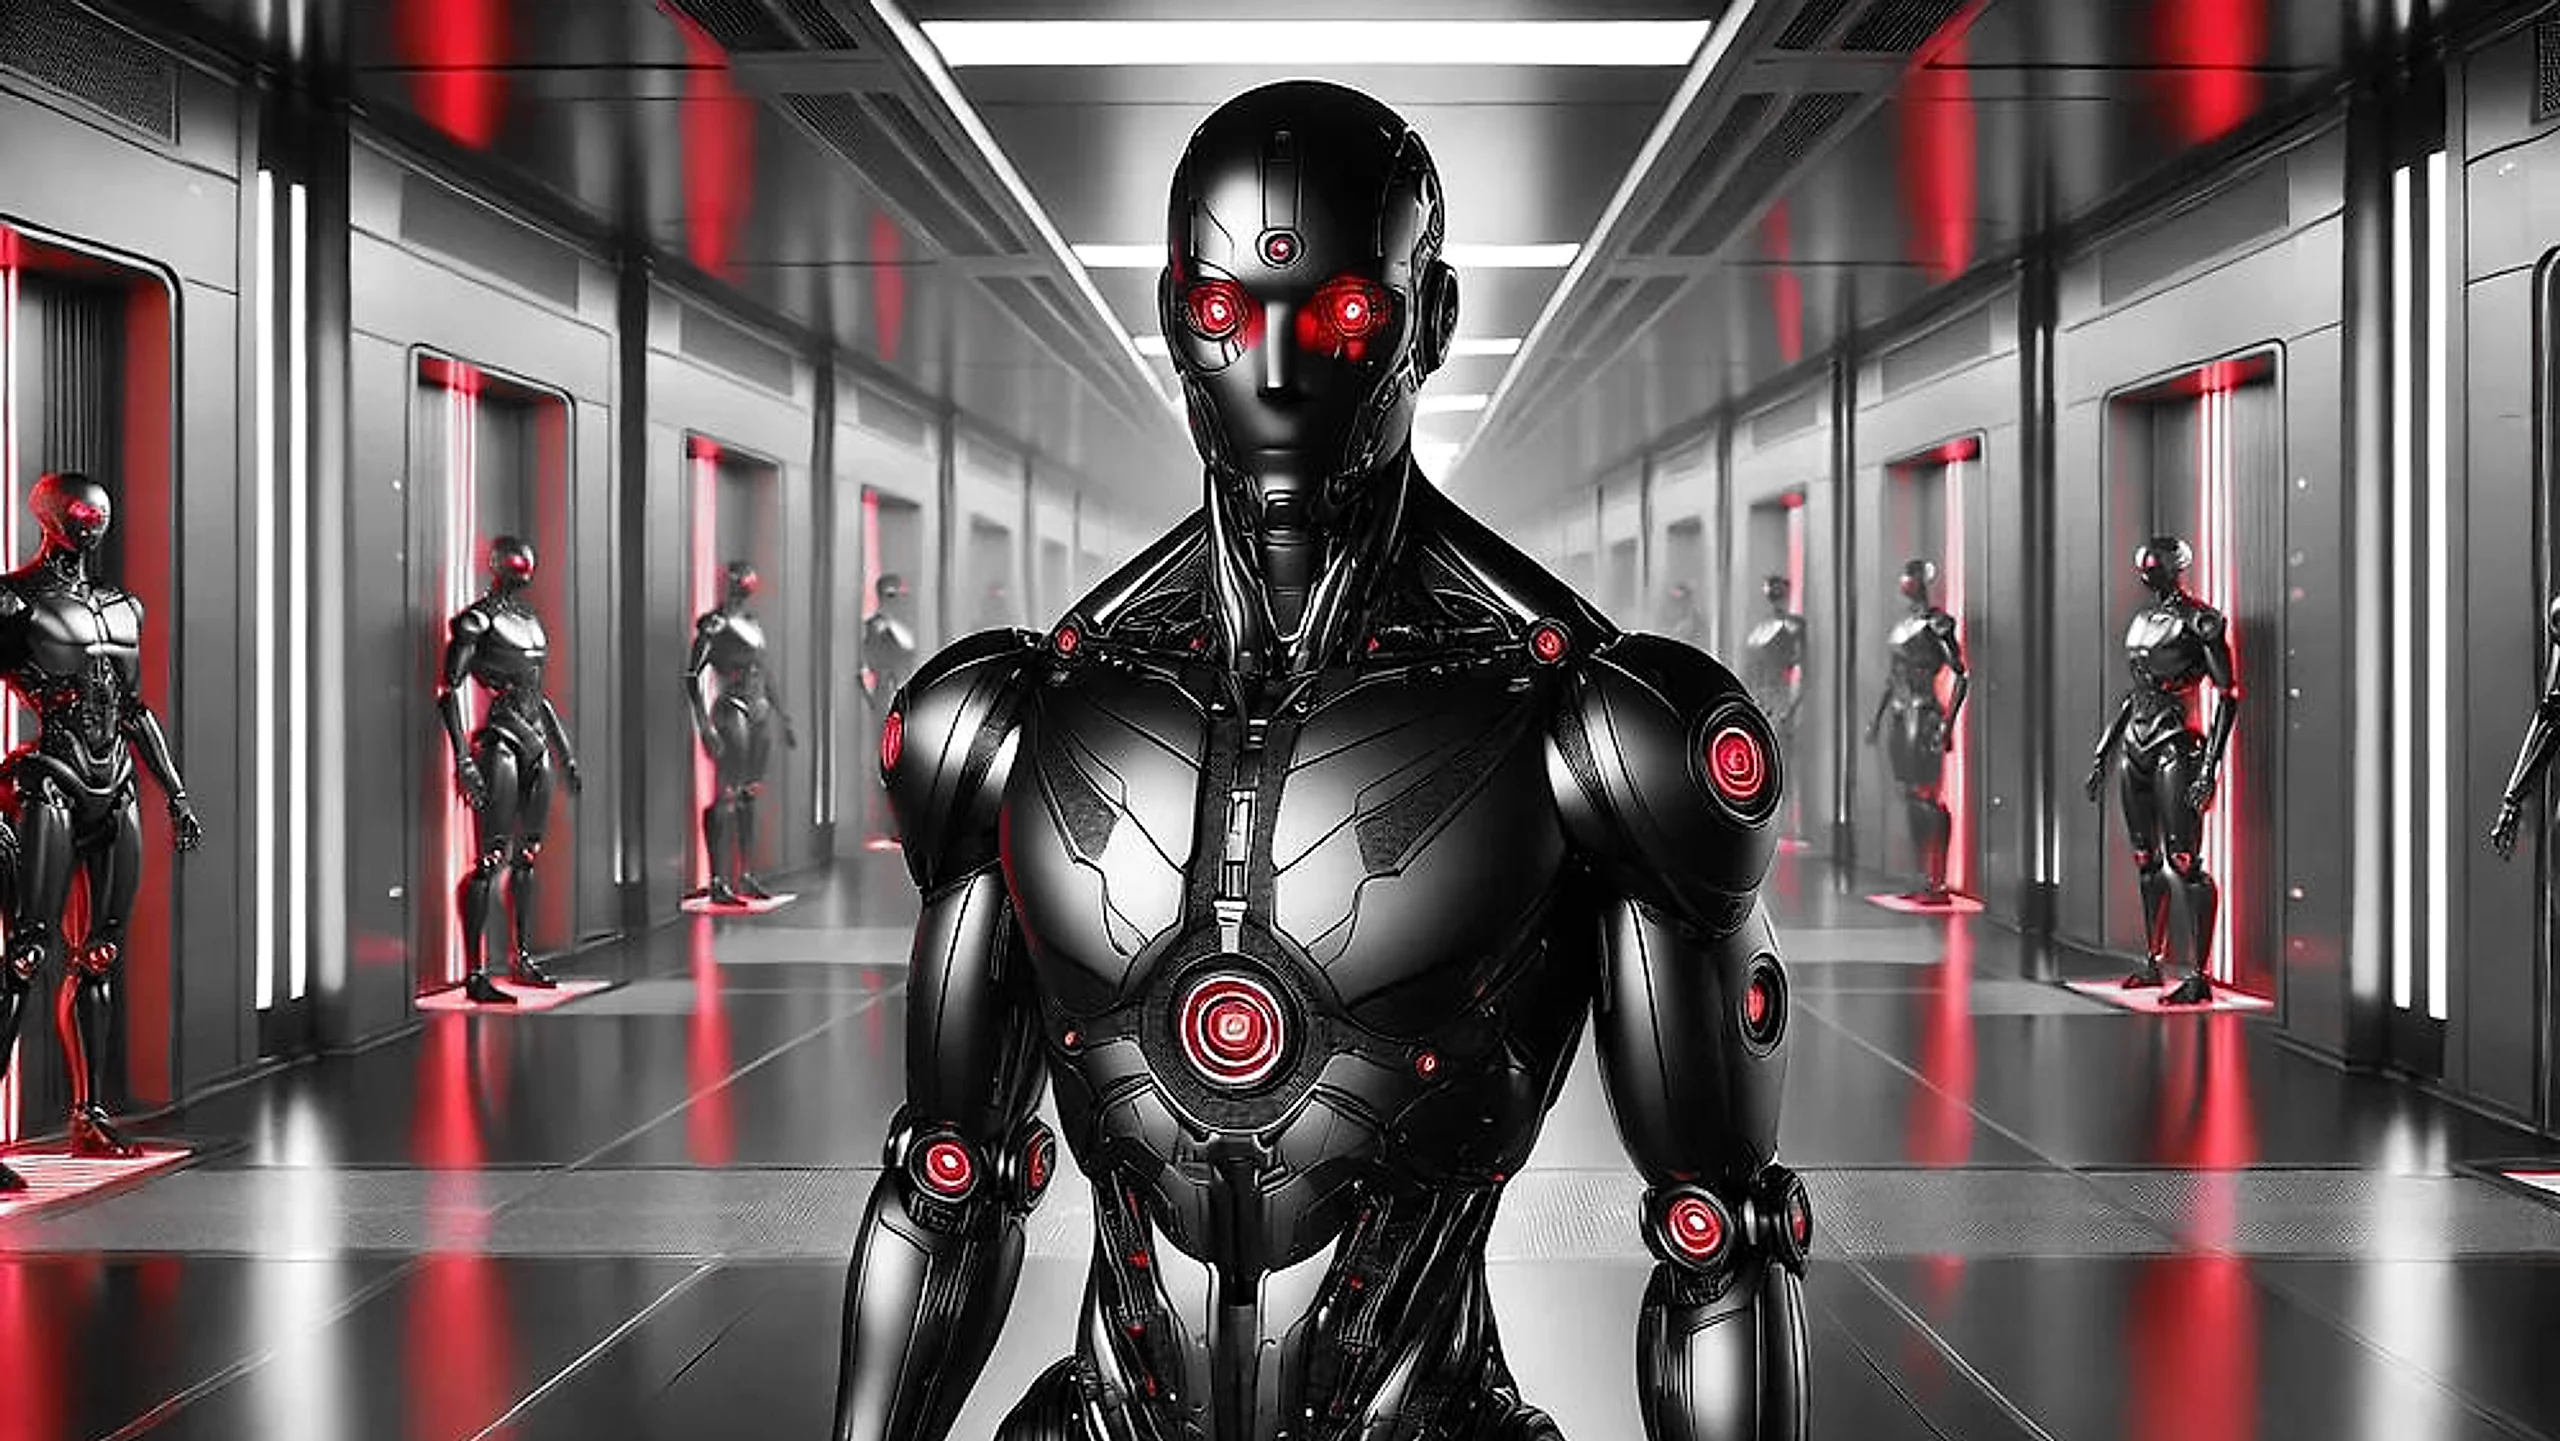
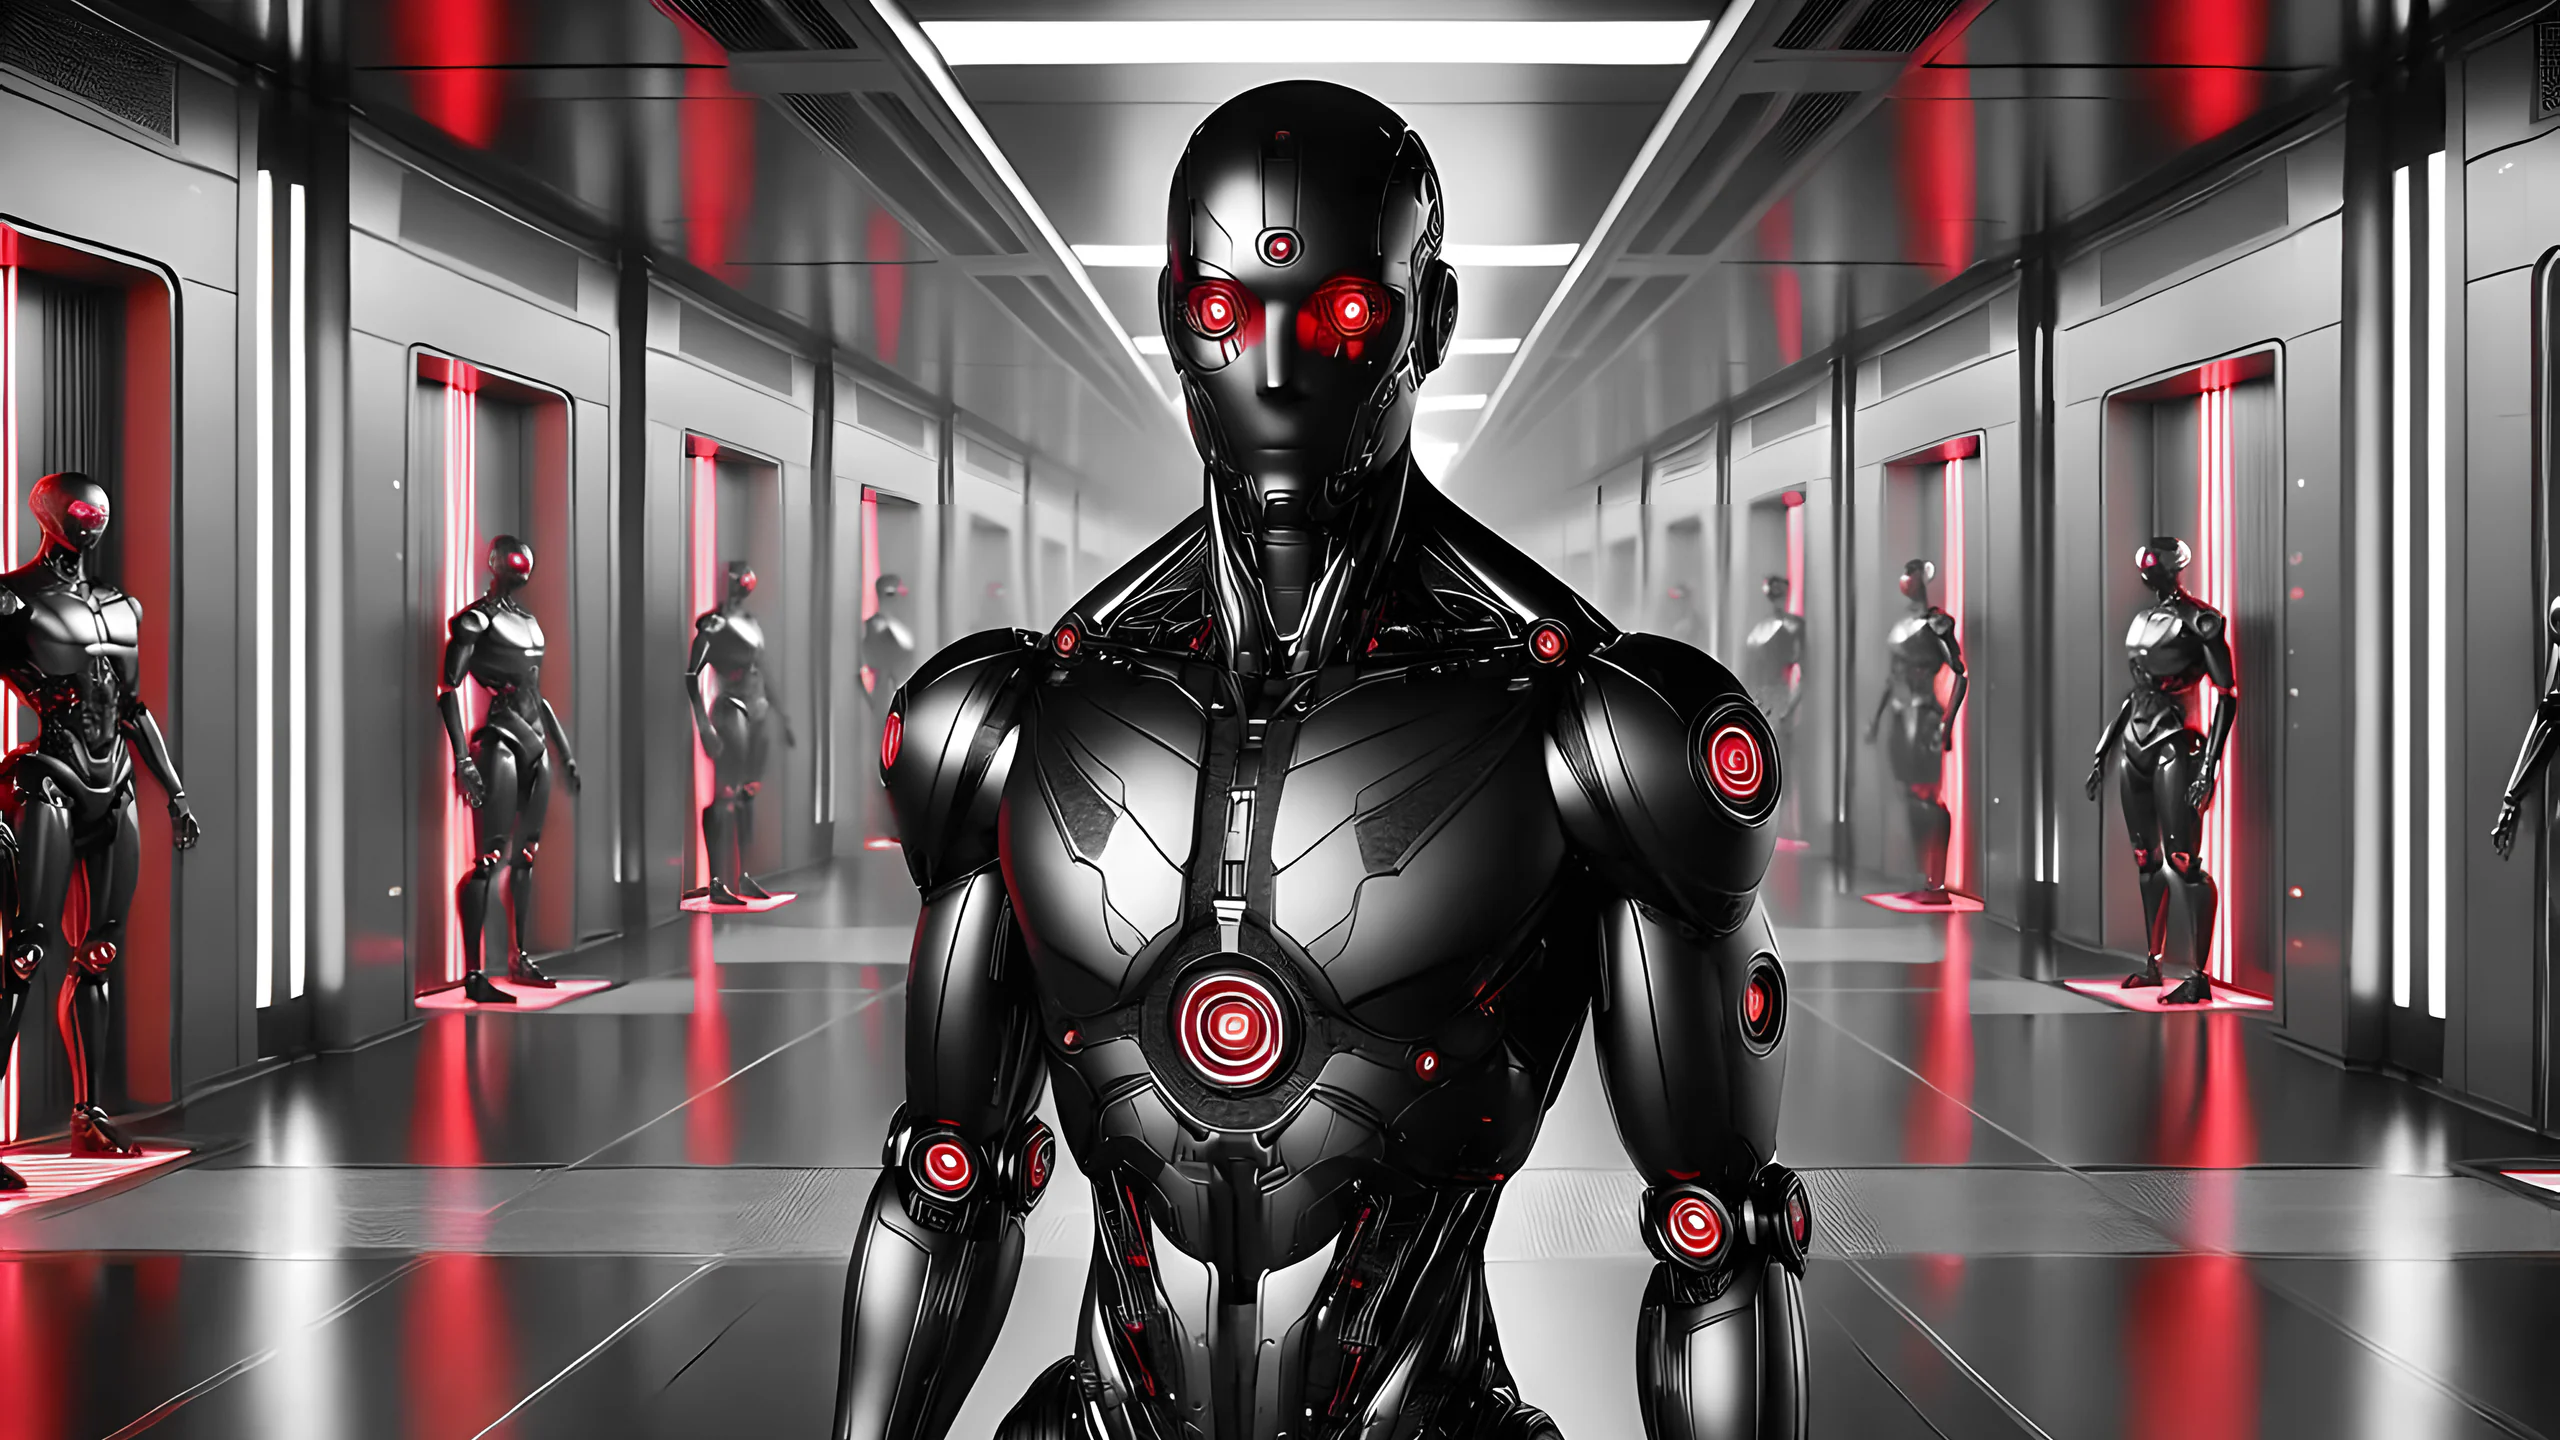
fix: AI super-resolution for the 7 scene artworks (Real-ESRGAN x4), 4K variants
- scenes are now built from Real-ESRGAN realesrgan-x4plus x4 outputs of the supplied artwork
  (.cache/scenes-x4, not committed) instead of Lanczos + sharpen: clean edges, no JPEG blocking
- outputs per scene: 3840 / 2560 / 1280 WebP (187-425 KB / 124-288 KB / 48-120 KB), no extra sharpening
- CinematicScene srcset adds the 3840w variant; no layout, animation or typography changes

diff --git a/src/components/motion/CinematicScene.tsx b/src/components/motion/CinematicScene.tsx
@@ -107,7 +107,7 @@ export function CinematicScene({
         {/* eslint-disable-next-line @next/next/no-img-element -- decorative background, pre-sized webp */}
         <img
           src={src}
-          srcSet={`${src.replace(/\.webp$/, "-1280.webp")} 1280w, ${src} 2560w`}
+          srcSet={`${src.replace(/\.webp$/, "-1280.webp")} 1280w, ${src} 2560w, ${src.replace(/\.webp$/, "-3840.webp")} 3840w`}
           sizes="100vw"
           alt=""
           decoding="async"
